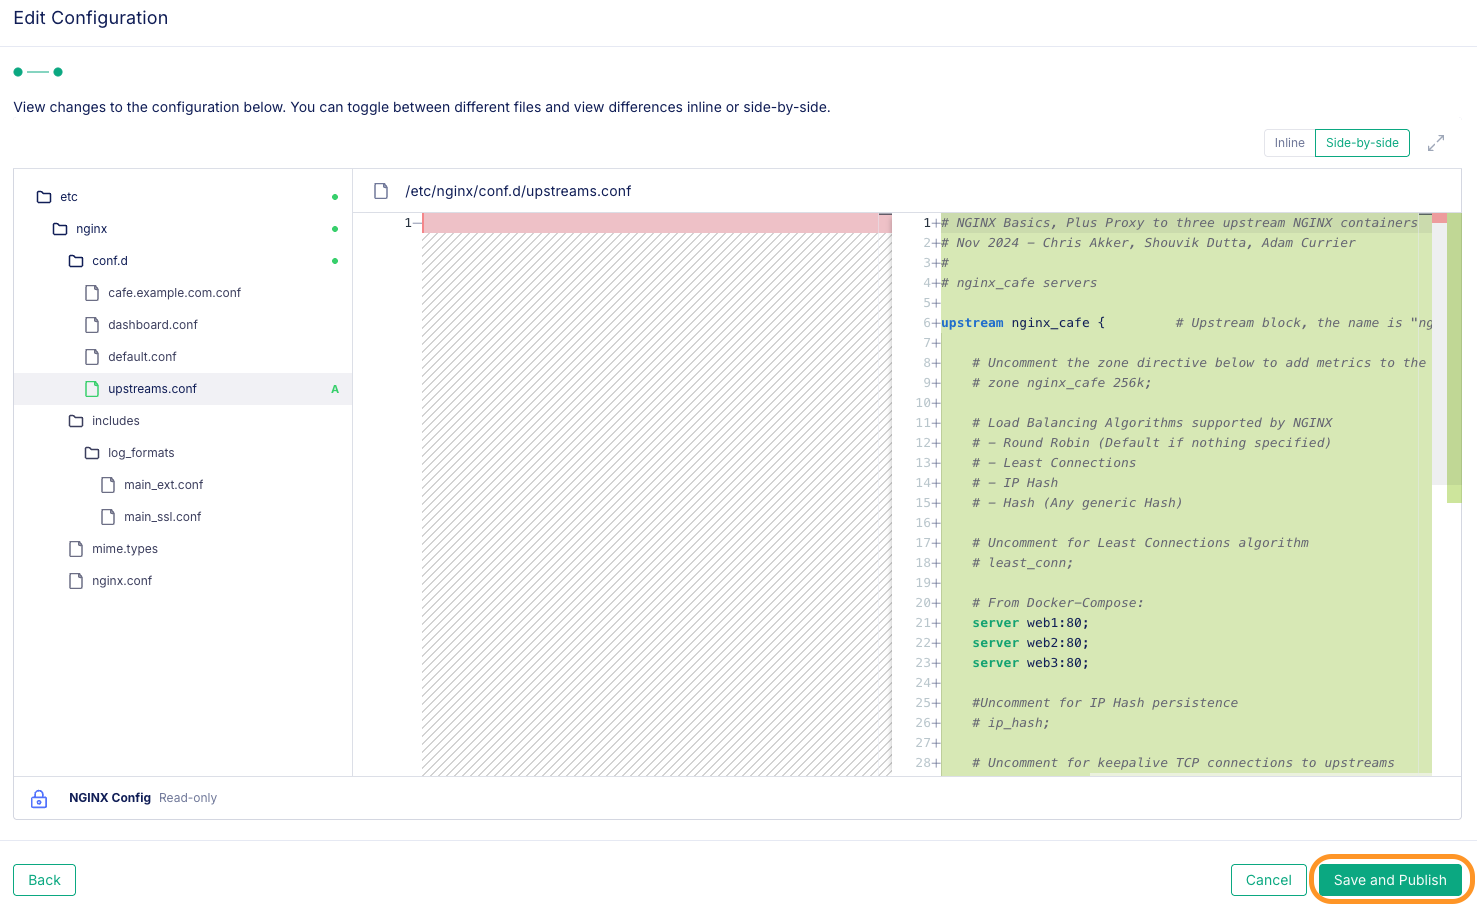
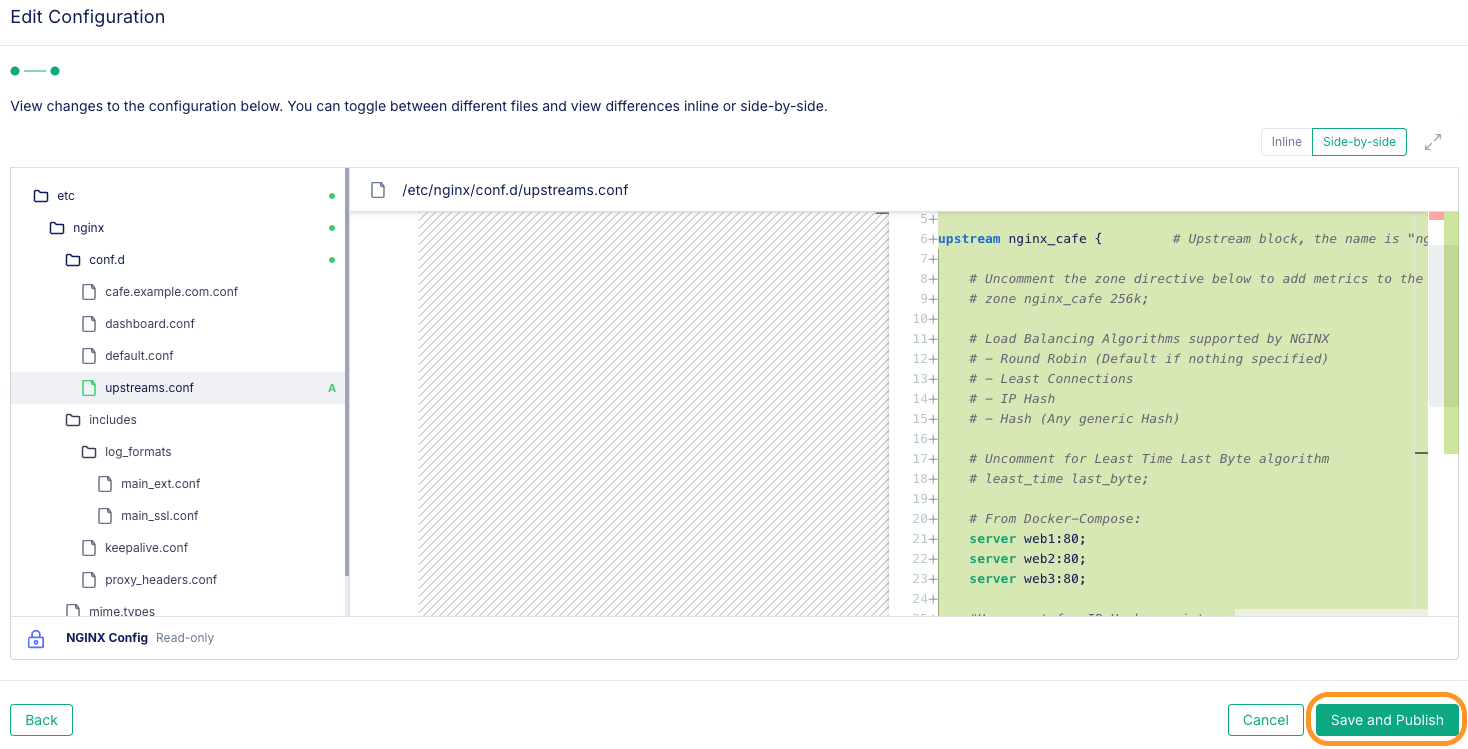
lab5 progress

diff --git a/labs/lab5/readme.md b/labs/lab5/readme.md
@@ -398,8 +398,8 @@ You will now configure the `NGINX Upstream Block`, which is a `list of backend s
         # - IP Hash
         # - Hash (Any generic Hash)     
 
-        # Uncomment for Least Connections algorithm      
-        # least_conn;
+        # Uncomment for Least Time Last Byte algorithm
+        # least_time last_byte;
 
         # From Docker-Compose:
         server web1:80;
@@ -947,11 +947,18 @@ Different backend applications may benefit from using different load balancing t
 
 1. NGINX's default Load Balancing algorithm is round-robin, if not specified in the upstream block.  In this next lab exercise, you will use the Plus `least_time last_byte` algorithm to send more traffic to different backends based on the response time.  
 
-1. Update your `upstreams.conf` file within your mounted folder (`labs/lab4/nginx-plus/etc/nginx/conf.d`) to enable Least Time Last Byte, as follows:
+1. Using Nginx One Console, update your `upstreams.conf` file to enable Least Time Last Byte, as follows:
 
     ```nginx
+    # NGINX Basics, Plus Proxy to three upstream NGINX containers
+    # Nov 2024 - Chris Akker, Shouvik Dutta, Adam Currier
+    #
+    # nginx_cafe servers
 
-    upstream nginx_cafe {
+    upstream nginx_cafe {         # Upstream block, the name is "nginx_cafe"
+
+        # Uncomment the zone directive below to add metrics to the Dashboard
+        zone nginx_cafe 256k;
 
         # Load Balancing Algorithms supported by NGINX
         # - Round Robin (Default if nothing specified)
@@ -959,16 +966,15 @@ Different backend applications may benefit from using different load balancing t
         # - IP Hash
         # - Hash (Any generic Hash)     
 
-        
         # Uncomment for Least Time Last Byte algorithm
         least_time last_byte;
 
-        # Docker-compose:
+        # From Docker-Compose:
         server web1:80;
         server web2:80;
         server web3:80;
-                            
-        # Uncomment for IP Hash persistence
+
+        #Uncomment for IP Hash persistence
         # ip_hash;
 
         # Uncomment for keepalive TCP connections to upstreams
@@ -978,51 +984,43 @@ Different backend applications may benefit from using different load balancing t
 
     ```
 
-1. Once the content of the file has been updated and saved, Docker Exec into the nginx-plus container.
+1. Validate your changes in the side-by-side differences page. If everything looks good, click on `Save and Publish`
 
-   ```bash
-    docker exec -it nginx-plus bin/bash
+    ![update LB algo in upstreams](media/lab5_none_upstreams_least_time_publish.png)
 
-    ```
+1. Once the content of the file has been updated and saved, you should see a pop up window as shown below.
 
-1. Test and reload your NGINX config by running `nginx -t` and `nginx -s reload` commands respectively from within the container.
+    ![one console Publish success](media/lab5_none_publish_success.png)
 
 1. While watching your NGINX Plus Dashboard at <http://localhost:9000/dashboard.html>, run the `wrk` load generation tool at your nginx-plus LoadBalancer:  
 
     `wrk` load generation tool is a docker container that will download and run, with 4 threads, at 200 connections, for 1 minute:
 
     ```bash
-    docker run --name wrk --network=lab4_default --rm williamyeh/wrk -t4 -c200 -d1m -H 'Host: cafe.example.com' --timeout 2s http://nginx-plus/coffee
+    docker run --name wrk --network=lab5_default --rm elswork/wrk -t4 -c200 -d1m -H 'Host: cafe.example.com' --timeout 2s http://$NAME-nginx-plus/coffee
 
     ```
 
-    Or, if you have an ARM processor (Mac M1/2), try this:
-
-    ```bash
-    docker run --name wrk --network=lab4_default --rm elswork/wrk -t4 -c200 -d1m -H 'Host: cafe.example.com' --timeout 2s http://nginx-plus/coffee
-
-    ```
-
-    In the `HTTP Upstreams` page, you should notice about 200 Active Connections, and the number of `server requests` should be increasing rapidly. 
+    In the `HTTP Upstreams` page, you should notice about 200 Active Connections, and the number of `server requests` should be increasing rapidly.
 
     After the 1 minute run of `wrk` load generation tool has finished, you should see a Summary of the statistics.  It should look similar to this:
 
     ```bash
     ##Sample output##
-    Running 1m test @ http://nginx-plus/coffee
+    Running 1m test @ http://s.jobs-nginx-plus/coffee
     4 threads and 200 connections
     Thread Stats   Avg      Stdev     Max   +/- Stdev
-        Latency    68.41ms   30.72ms   1.28s    98.85%
-        Req/Sec   747.52     81.56     2.11k    84.40%
-    178597 requests in 1.00m, 284.27MB read
-    Requests/sec:   2872.08                     # Good performance ?
-    Transfer/sec:      4.73MB
+        Latency   170.33ms  130.60ms   1.38s    60.66%
+        Req/Sec   297.60    324.02     1.72k    82.64%
+    71007 requests in 1.00m, 111.87MB read
+    Requests/sec:   1182.59                     # Good performance ?
+    Transfer/sec:      1.86MB
 
     ```
 
-    Well, that performance looks pretty good, about ~2900 HTTP Reqs/second (how much do you get?).  But NGINX can do better.  You will enable TCP keepalives to the Upstreams.  This Directive will tell NGINX to create a `pool of TCP connections to each Upstream`, and use that established connection pool to rapid-fire HTTP requests to the backends.  `No delays waiting for the TCP 3-way handshakes!`  It is considered a Best Practice to enable keepalives to the Upstream servers.
+    Well, that performance looks pretty good, about ~1200 HTTP Reqs/second (how much do you get?).  But NGINX can do better.  You will enable TCP keepalives to the Upstreams.  This Directive will tell NGINX to create a `pool of TCP connections to each Upstream`, and use that established connection pool to rapid-fire HTTP requests to the backends.  `No delays waiting for the TCP 3-way handshakes!`  It is considered a Best Practice to enable keepalives to the Upstream servers.
 
-1. Update your `upstreams.conf` file within your mounted folder (`labs/lab4/nginx-plus/etc/nginx/conf.d`) and uncomment the `keepalives 16` line.
+1. Using Nginx One Console, update your `upstreams.conf` file to uncomment the `keepalives 16` line.
 
     ```nginx
     ...snip
@@ -1045,14 +1043,13 @@ Different backend applications may benefit from using different load balancing t
 
     ```
 
-1. Once the content of the file has been updated and saved, Docker Exec into the nginx-plus container.
+1. Validate your changes in the side-by-side differences page. If everything looks good, click on `Save and Publish`
 
-   ```bash
-    docker exec -it nginx-plus bin/bash
+    ![update LB algo in upstreams](media/lab5_none_upstreams_keepalive16_publish.png)
 
-    ```
+1. Once the content of the file has been updated and saved, you should see a pop up window as shown below.
 
-1. Test and reload your NGINX config by running `nginx -t` and `nginx -s reload` commands respectively from within the container.
+    ![one console Publish success](media/lab5_none_publish_success.png)
 
 1. Run the `wrk` load generator again. You should now have `least_time last_byte` and `keepalive` both **enabled**.
 
@@ -1060,24 +1057,23 @@ Different backend applications may benefit from using different load balancing t
 
     ```bash
     ##Sample output##
-    Running 1m test @ http://nginx-plus/coffee
+    Running 1m test @ http://s.jobs-nginx-plus/coffee
     4 threads and 200 connections
     Thread Stats   Avg      Stdev     Max   +/- Stdev
-        Latency    43.90ms   47.06ms   1.18s    98.98%
-        Req/Sec     1.24k   118.64     1.88k    77.34%
-    297076 requests in 1.00m, 473.63MB read
-    Requests/sec:   7046.17       # NICE, much better!
-    Transfer/sec:      9.89MB
-
+        Latency    41.68ms   29.71ms 434.89ms   91.38%
+        Req/Sec     1.33k   435.08     2.45k    77.17%
+    318197 requests in 1.00m, 501.50MB read
+    Requests/sec:   5298.94         # NICE, much better!
+    Transfer/sec:      8.35MB
     ```
 
-    >>Wow, more that **DOUBLE the performance**, with Upstream `keepalive` enabled - over 6,000 HTTP Reqs/second.  Did you see a performance increase??  Your mileage here will vary of course, depending on what kind of machine you are using for these Docker containers.
+    >>Wow, **around FOUR times the performance**, with Upstream `keepalive` enabled - over 5300 HTTP Reqs/second.  Did you see a performance increase??  Your mileage here will vary of course, depending on what kind of machine you are using for these Docker containers.
 
-    ![Cafe with Keepalive](media/lab4_cafe-perf-keepalive.png)
+    ![Cafe with Keepalive](media/lab5_cafe-perf-keepalive.png)
 
     >But this points out a very important concept to be aware of: NGINX uses HTTP/1.0 to all upstreams by default.  HTTP/1.0 is limited to a single TCP connection for a single HTTP object on the web page.  If you have hundreds of web objects, you will need hundreds of TCP connections.  This is a large waste of time and resources, so adding TCP Keepalives and HTTP/1.1 will make a significant improvement in performance in most cases.
 
-Optional Exercise: In this next lab exercise, you will use the `weighted` algorithm to send more traffic to different backends. 
+Optional Exercise: In this next lab exercise, you will use the `weighted` algorithm to send more traffic to different backends.
 
 1. Update your `upstreams.conf` file within your mounted folder (`labs/lab4/nginx-plus/etc/nginx/conf.d`) to modify the `server`entries to set an administrative ratio, as follows:
 
@@ -1115,7 +1111,7 @@ Optional Exercise: In this next lab exercise, you will use the `weighted` algori
 1. For a fun test, hit it again with `wrk`...what do you observe?  Do admin weights help or hurt performance?  
 
     ![Cafe Weighted Dashboard](media/lab4_cafe-perf-weighted.png)
-    
+
     Only the results will tell you for sure, checking the Docker Desktop Dashboard - looks like the CPU ratio on the web containers matches the `weight` values for the Upstreams.
 
     ![Docker Dashboard](media/lab4_docker-perf-weighted.png)
